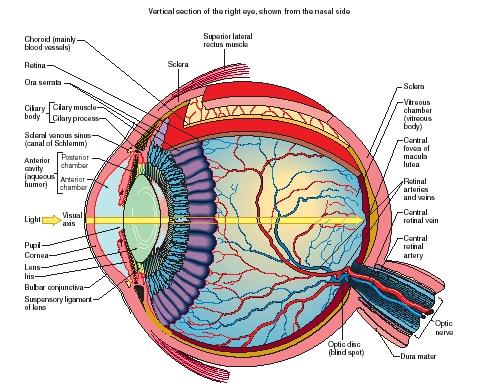
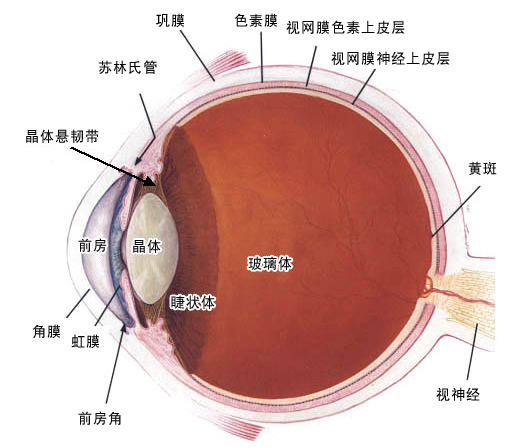
lecture02 update

diff --git a/lecture02.tex b/lecture02.tex
@@ -70,14 +70,14 @@
 	\frametitle{人的感知}
 	\beamertemplatetransparentcovereddynamicmedium 
 	\begin{itemize}[<+->]
-		\item 人的感知即通过人体器官和组织进行人与外部世界的信息的交流和传递
+		\item 人的感知即\textbf{通过人体器官和组织进行人与外部世界的信息的交流和传递}
 		\item 认知是人们在进行日常活动时发生于头脑中的事情
 		\begin{itemize}
 			\item 涉及思维、记忆、学习、幻想、决策、看、读、写和交谈等
 		\end{itemize}
 		\item 人的感知是认知的基础，认知是将感知获取的信息综合运用
 		\begin{itemize}
-			\item 认知分为经验认知和思维认知
+			\item 认知分为\textbf{经验认知}和\textbf{思维认知}
 			\item 认知过程是相互联系的，单纯的一个认知过程是非常少见的
 		\end{itemize}
 	\end{itemize}
@@ -88,8 +88,8 @@
 	\beamertemplatetransparentcovereddynamicmedium 
 	\begin{itemize}
 		\item 认知心理学是二十世纪50年代中期在西方兴起的一种心理学思潮，二十世纪70年代开始其成为西方心理学的一个主要研究方向。\pause
-		\item 是作为人类行为基础的心理机制，其核心是输入和输出之间发生的内部心理过程。\pause
-		\item 与西方传统哲学也有一定联系，其主要特点是强调知识的作用，认为知识是决定人类行为的主要因素。\pause
+		\item 是构成人类行为基础的心理机制，其核心是输入和输出之间发生的内部心理过程。\pause
+		\item 与西方传统哲学也有一定联系，其主要特点是\textbf{强调知识的作用，认为知识是决定人类行为的主要因素}。\pause
 		\item 认知心理学研究：
 		\begin{itemize}
 			\item 人们如何获得外部世界信息
@@ -102,14 +102,14 @@
 \begin{frame}
 	\frametitle{感知通道}
 	\beamertemplatetransparentcovereddynamicmedium 
-	\begin{itemize}[<+->]
-		\item 五种基本感知的绝对阈限:
+	\begin{itemize}
+		\item \onslide<1->{五种基本感知的绝对阈限:}
 		\begin{itemize}
-			\item 视觉: 在黑暗而空气清新的夜晚, 人们可以看到30 英里( 48000 千米) 外的一只烛光( 1 英里≈1.6 千米) ; 
-			\item 听觉: 在安静的环境中, 人能够听到20英尺远处的手表滴答声( 1 英尺= 0.3 米) ; 
-			\item 嗅觉: 人能嗅到1 公升空气中散布的1/10 万毫克的人造麝香的气味; 
-			\item 味觉: 人可尝出9 升水中放一茶匙糖的甜味; 
-			\item 触觉: 人可感到蜂蜜翅膀距脸颊1 厘米处落下。
+			\item \textbf{视觉}: \onslide<2->{在黑暗而空气清新的夜晚, 人们可以看到48公里外的一只烛光;} 
+			\item \textbf{听觉}: \onslide<3->{在安静的环境中, 人能够听到6米远处的手表滴答声;}
+			\item \textbf{嗅觉}: \onslide<4->{人能嗅到1公升空气中散布的1/10万毫克的人造麝香的气味; }
+			\item \textbf{味觉}: \onslide<5->{人可尝出9升水中放一茶匙糖的甜味; }
+			\item \textbf{触觉}: \onslide<6->{人可感到蜂蜜翅膀距脸颊1厘米处落下。}
 		\end{itemize}
 	\end{itemize}
 \end{frame}
@@ -126,74 +126,128 @@
 
 \begin{frame}
 	\frametitle{视觉感知~{\small 特点}}
-	\beamertemplatetransparentcovereddynamicmedium 
-	\begin{itemize}[<+->]
-		\item 一方面，眼睛和视觉系统的物理特性决定了人类无法看到某些事物；
-		\item 另一方面，视觉系统进行解释处理信息时可对不完全信息发挥一定的想象力。
-		\item 进行人机交互设计需要清楚这两个阶段及其影响，了解人类真正能够看到的信息。
-	\end{itemize}	
+	\beamertemplatetransparentcovereddynamicmedium
+	\transwipe
+	\setbeamercolor{uppercol}{fg=white,bg=green!80!gray}
+	\setbeamercolor{lowercol}{fg=black,bg=green!20!white}
+	\begin{columns}
+		\column{5cm}
+		\onslide<1->{
+			\begin{beamerboxesrounded}[upper=uppercol,lower=lowercol,shadow=true]{受到外部刺激接收信息}
+				眼睛和视觉系统的物理特性决定了人类无法看到某些事物
+			\end{beamerboxesrounded}
+		}
+		\column{5cm}
+		\onslide<2->{
+			\begin{beamerboxesrounded}[upper=uppercol,lower=lowercol,shadow=true]{解释信息}
+				视觉系统进行解释处理信息时可对不完全信息发挥一定的想象力
+			\end{beamerboxesrounded}
+		}
+	\end{columns}
+	~\\
+	\onslide<3->{进行人机交互设计需要清楚这两个阶段及其影响，了解人类真正能够看到的信息。}
 \end{frame}
 
 \begin{frame}
 	\frametitle{眼睛的构造}
 	\transboxout
-	\only<1>{\includegraphics[width=8cm]{images/eyeball.jpg}}
-	\only<2>{\includegraphics[width=8cm]{images/eyeball-anatomy.jpg}}
+	\begin{center}
+		\only<1>{\includegraphics[width=7cm]{images/eyeball.jpg}}
+		\only<2>{\includegraphics[width=8cm]{images/eyeball-anatomy.jpg}}
+	\end{center}
 \end{frame}
 
 \begin{frame}
 	\frametitle{视干细胞和视锥细胞}
-	\begin{tabular}[t]{p{4.5cm}p{4.5cm}}
+	\begin{tabular}[t]{p{4.5cm}|p{4.5cm}}
 		\hline
-		视干细胞 & 视锥细胞\\
-		\hline
-		在低水平照明时（如夜间）起作用 & 在高水平照明时（如白天）起作用\\
-		区别黑白 & 区别彩色\\
-		对光谱中绿色部分最敏感，在远离视网膜中心处最多 & 对光谱中黄色部分最敏感，在视网膜中部最多\\
-		对极弱的刺激敏感 & 主要在识别空间位置和要求敏锐地看物体时起作用\\
-		\hline
+		视干细胞 & 视锥细胞\\	\hline
+		在低水平照明时起作用 & 在高水平照明时起作用\\\hline
+		区别黑白 & 区别彩色\\	\hline
+		对光谱中绿色部分最敏感 & 对光谱中黄色部分最敏感\\\hline
+		在远离视网膜中心处最多 & 在视网膜中部最多\\\hline
+		对极弱的刺激敏感 & 识别空间位置、敏锐地看物体\\\hline
 	\end{tabular}
 \end{frame}
 
 \begin{frame}
 	\frametitle{视角和视敏度}
-
+	\beamertemplatetransparentcovereddynamicmedium
+	\begin{columns}
+		\column{7.5cm}
+		\begin{center}
+			\includegraphics[width=5cm]{images/viewport.png}
+		\end{center}
+		\begin{itemize}[<+->]
+			\item 视敏度：{\tiny 指人眼对细节的感知能力，通常用被辨别物体最小间距所对应的视角的倒数表示。通常将能分辨出视角1′的视敏度定为1.0。}
+			\item 一般人能够在2m的距离分辨2mm-20mm的间距，为我们设计界面时字符大小和间距提供了依据
+		\end{itemize}
+	\column{2.5cm}
+	\includegraphics[width=2cm]{images/eye-chart.jpg}
+	\end{columns}
 \end{frame}
 
 \begin{frame}
 	\frametitle{感知物体大小、相对距离和深度}
-
+	\beamertemplatetransparentcovereddynamicmedium
+	\begin{columns}
+	\column{5cm}
+	利用视觉影像中的线索：
+	\begin{itemize}
+		\item<1-> 覆盖关系\\{\tiny 被覆盖的物体相对较远；}
+		\item<2-> 大小比例\\{\tiny 一般来讲，较大的物体距离较近；}
+		\item<3-> 对物体的熟悉度\\{\tiny 对非常熟悉物体，人们对物体的大小在头脑中事先有一个期望和预测，因此在判断物体距离时很容易和他看到的物体的大小联系起来。} 
+	\end{itemize}
+	\column{5cm}
+	\begin{center}
+		\includegraphics[width=4cm]{images/depth.jpg}
+	\end{center}
+	\end{columns}
 \end{frame}
 
 \begin{frame}
-	\frametitle{感知亮度}
-
-\end{frame}
-
-\begin{frame}
-	\frametitle{感知色彩}
-
+	\frametitle{感知亮度及色彩}
+	\beamertemplatetransparentcovereddynamicmedium
+	\begin{center}
+		\includegraphics[width=6cm]{images/04_rgb_luminance.jpg}
+	\end{center}
+%	\begin{itemize}
+%		\item 亮度是光线明亮程度的主观反映 
+%		\item 增强亮度可以提高视敏度 
+%		\item 随着亮度的增加，闪烁感也会增强。~在高亮度时，光线变化低于50Hz，视觉系统就会感到闪烁
+%	\end{itemize}
+%	\begin{itemize}
+%		\item 人能感觉到不同的颜色，这是眼睛接受不同波长的光的结果。 
+%		\item 颜色通常用三种属性表示：色度、强度和饱和度。
+%		\item 色度是由光的波长决定的，正常的眼睛可感受到的光谱波长为400μm-700μm。
+%	\end{itemize}
+	\begin{itemize}[<+->]
+		\item 视敏度影响、闪烁感与50Hz界限
+		\item 波长，可视光谱，三种属性：\\{\tiny 色度 chrominance、强度 luminance 和饱和度 saturation}
+		\item 在设计交互界面时，要\textbf{考虑使用者对亮度、闪烁以及色彩对比的感知}，避免疲劳，创造舒适的交互环境。
+	\end{itemize}
 \end{frame}
 
 \begin{frame}
 	\frametitle{视觉行为的整体性}
-	\transwipe
 	格式塔 (Gestalt) 心理学\\
 	\begin{center}
 	\begin{tikzpicture}
-		\foreach \c in {(1,1)} \fill \c + (0.5,0.5) circle (0.40);
-		\foreach \c in {(6,1)} \fill \c + (0.5,0.5) circle (0.40);\pause
-		\foreach \c in {(1,0), (0,1), (2,1), (1,2)} \fill \c + (0.5,0.5) circle (0.45);
-		\foreach \c in {(6,0), (5,1), (7,1), (6,2)} \fill \c + (0.5,0.5) circle (0.35);
+		\onslide<1>{
+			\foreach \c in {(1,0), (0,1), (2,1), (1,2)} \fill \c + (0.5,0.5) circle (0.50);
+			\foreach \c in {(6,0), (5,1), (7,1), (6,2)} \fill \c + (0.5,0.5) circle (0.30);
+		}
+		\onslide<1,2>{
+			\foreach \c in {(1,1)} \fill \c + (0.5,0.5) circle (0.40);
+			\foreach \c in {(6,1)} \fill \c + (0.5,0.5) circle (0.40);
+		}
 	\end{tikzpicture}
 	\end{center}
 \end{frame}
 
 \begin{frame}
 	\frametitle{视觉行为的整体性}
-	\transwipe
-	格式塔 (Gestalt) 心理学\\
-	\includegraphics[width=8cm]{images/gestalt1.jpg}
+	\includegraphics[width=9cm]{images/gestalt1.jpg}
 \end{frame}
 
 \subsection{认知过程与交互设计原则}
